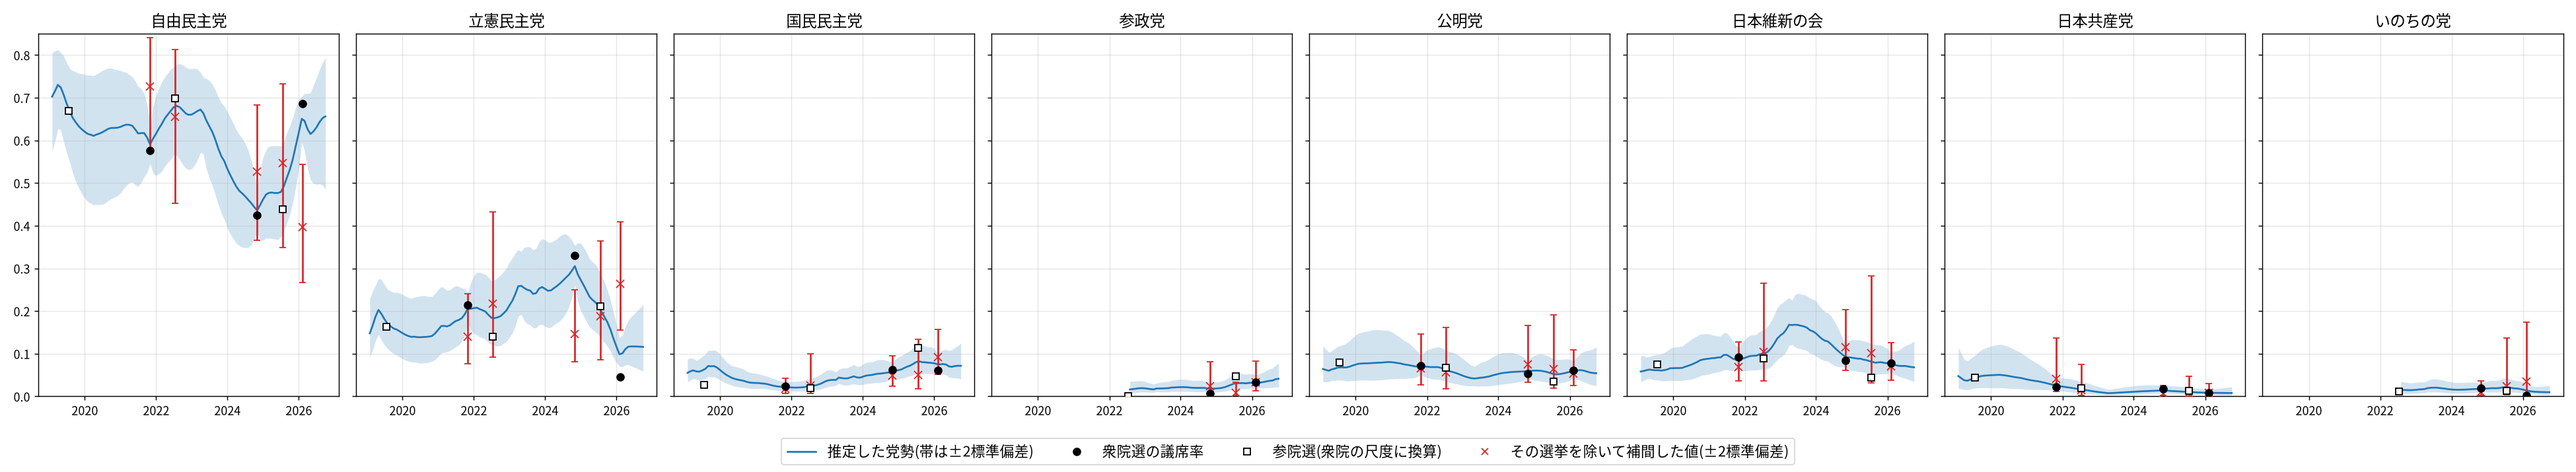
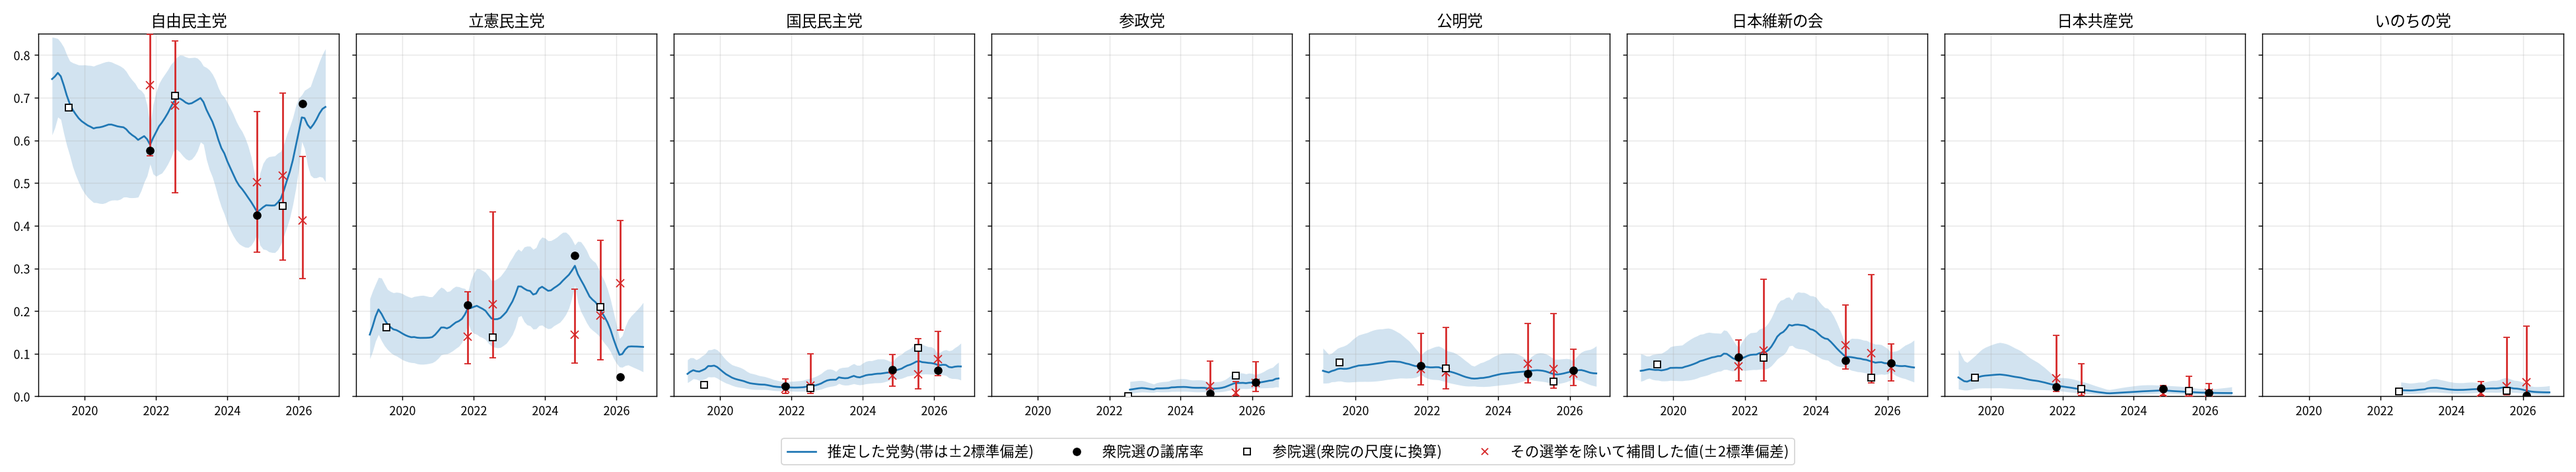
党勢指数v2の地方選挙を議会選挙だけにし、名簿の公開が遅れる首長選を観測から外す
国政選挙の補間(36件)の二乗平均誤差は0.081から0.078になり、悪くならない。
記事・設計文書・図表を新しい推定に合わせ、図1の動きの内訳を凡例つきで描き直す。

diff --git a/src/seiryoku/charts.py b/src/seiryoku/charts.py
@@ -32,6 +32,8 @@ LEVEL_COLORS = ["#c0392b", "#e67e22", "#8e44ad", "#2980b9", "#27ae60", "#7f8c8d"
 # LEVEL_ORDERはlevel_weight_shareの実データキー(monthly_index.py参照)と一致させる
 # 必要があるため変更できない。表示名だけをここで日本語として正式な言い方に直す。
 LEVEL_DISPLAY_NAMES = {"衆院選": "衆議院", "参院選": "参議院"}
+# 党勢指数v2の動きの内訳の色。v2では市区町村議会が大半を占めるので、v1の灰色だと背景に見える
+TREND_LEVEL_COLORS = {"衆院選": "#c0392b", "参院選": "#e67e22", "都道府県議会": "#2980b9", "市区町村議会": "#27ae60"}
 
 # 首相の在任期間(発足月)。出典: 首相官邸・各内閣公式発表。更新頻度が低いため
 # 定数として持ち、首相交代のたびに手動で追記する。
@@ -968,11 +970,17 @@ def generate_trend_chart(result: dict, out_path: Path = TREND_OUT_PATH) -> Path:
     for lv in LEVEL_ORDER:
         totals += np.array(level_data[lv])
     levels = [lv for lv in LEVEL_ORDER if any(level_data[lv])]
-    level_colors = [c for lv, c in zip(LEVEL_ORDER, LEVEL_COLORS) if lv in levels]
+    level_colors = [TREND_LEVEL_COLORS.get(lv, c) for lv, c in zip(LEVEL_ORDER, LEVEL_COLORS) if lv in levels]
     level_data = {lv: [v / t * 100 if t > 0 else 0.0 for v, t in zip(level_data[lv], totals)] for lv in levels}
     # 選挙のない月は空白のまま見せるため、隣の月と斜めにつながない段で描く
     ax2.stackplot(range(n_months), [level_data[lv] for lv in levels], colors=level_colors, alpha=0.85, zorder=2,
-                  step="mid")
+                  step="mid", labels=[LEVEL_DISPLAY_NAMES.get(lv, lv) for lv in levels])
+    # 帯の大半が細い棒なので、帯の中に名前を置くと隣の棒を指して見える。右の余白に凡例として置く
+    handles, labels = ax2.get_legend_handles_labels()
+    # 凡例の左端を1段目の政党名の書き出しにそろえる
+    ax2.legend(handles[::-1], labels[::-1], loc="center left", fontsize=13, frameon=False, handlelength=1.4,
+               borderpad=0, borderaxespad=0,
+               bbox_to_anchor=(n_months - 1 + n_months * 0.015, 50), bbox_transform=ax2.transData)
     for i, _ in events:
         ax2.axvline(i, color="#555555", linewidth=0.8, linestyle="--", zorder=5)
     ax2.set_ylim(0, 100)
@@ -1002,7 +1010,6 @@ def generate_trend_chart(result: dict, out_path: Path = TREND_OUT_PATH) -> Path:
     ax3.set_xticklabels([months[i][:7].replace("-", "/") for i in ticks], fontsize=13, rotation=30, ha="right")
 
     fig.tight_layout(rect=[0.0, 0.02, 0.99, 1])
-    _draw_stack_labels(ax2, levels, LEVEL_DISPLAY_NAMES, level_data)
     out_path.parent.mkdir(parents=True, exist_ok=True)
     fig.savefig(out_path, facecolor="white", bbox_inches="tight")
     plt.close(fig)
